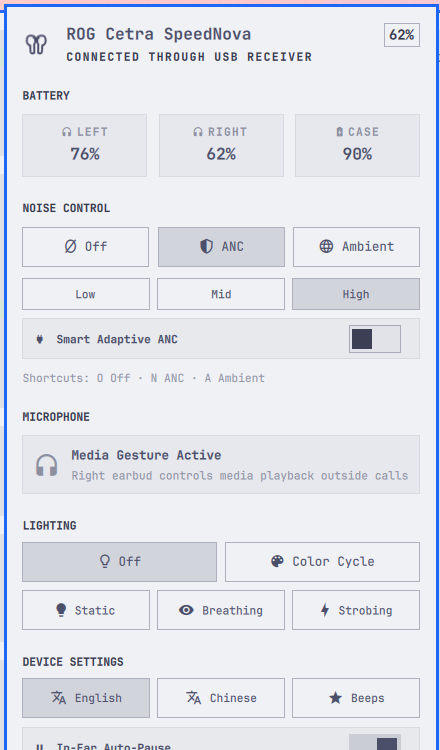
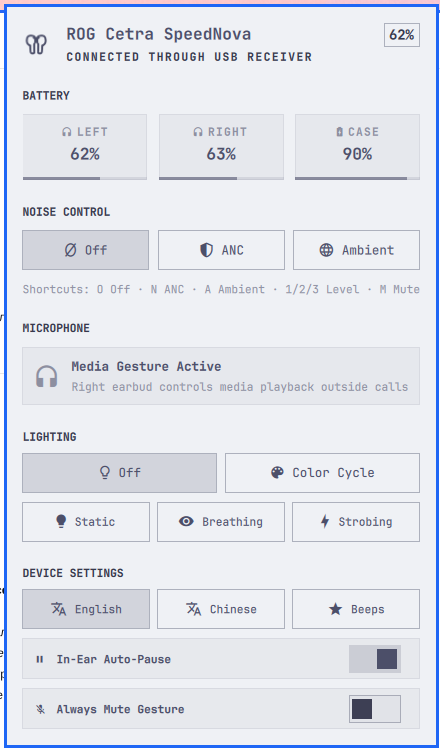
Add battery micro-bars, right-click mode toggle, theme-adaptive aura, and RU keyboard shortcuts

diff --git a/Cetra.qml b/Cetra.qml
@@ -11,6 +11,7 @@ Panel {
 
   readonly property string watchCommand: Qt.resolvedUrl("bin/cetra-watch").toString().replace("file://", "")
   readonly property color foreground: bar ? bar.foreground : Color.foreground
+  readonly property color accent: bar ? bar.accent : Color.accent
   readonly property color barColor: lowestLevel >= 0 && lowestLevel <= 20
     ? (bar ? bar.urgent : Color.urgent)
     : barForeground
@@ -148,7 +149,17 @@ Panel {
   function setLighting(effect) {
     if (!connected) return
     lighting = effect
-    deviceWatchProc.write("lighting " + effect + "\n")
+    var r = Math.round(accent.r * 255)
+    var g = Math.round(accent.g * 255)
+    var b = Math.round(accent.b * 255)
+    deviceWatchProc.write("lighting " + effect + " " + r + " " + g + " " + b + "\n")
+  }
+
+  function cycleListeningMode() {
+    if (!connected || pendingMode !== "") return
+    if (listeningMode === "off") setListeningMode("anc")
+    else if (listeningMode === "anc") setListeningMode("ambient")
+    else setListeningMode("off")
   }
 
   function updateCallContext() {
@@ -237,10 +248,22 @@ Panel {
     horizontalMargin: 7
     tooltipText: root.connected
       ? "ROG Cetra SpeedNova\nLeft: " + root.levelText(root.leftLevel)
-        + "\nRight: " + root.levelText(root.rightLevel)
-        + "\nCase: " + root.levelText(root.caseLevel)
+        + " · Right: " + root.levelText(root.rightLevel)
+        + " · Case: " + root.levelText(root.caseLevel)
+        + "\nMode: " + root.listeningMode.toUpperCase()
+        + (root.listeningMode === "anc" ? " (" + (root.ancAdaptive ? "Adaptive" : (root.ancLevel === 1 ? "Low" : (root.ancLevel === 2 ? "Mid" : "High"))) + ")" : "")
+        + " · Mic: " + (root.callContextActive ? (root.micLive ? "Live" : "Muted") : "Media")
       : "ROG Cetra SpeedNova\n" + root.statusLabel
-    onPressed: function() { root.toggle() }
+    onPressed: function(button) {
+      if (button === Qt.RightButton) {
+        root.cycleListeningMode()
+      } else {
+        root.toggle()
+      }
+    }
+    onWheelMoved: function(delta) {
+      if (delta !== 0) root.cycleListeningMode()
+    }
 
     Row {
       id: barContent
@@ -292,6 +315,28 @@ Panel {
       anchors.fill: parent
       onCloseRequested: root.close()
       onTabRequested: function(direction) { root.switchPanel(direction) }
+      onTextKey: function(t) {
+        if (t === "o" || t === "O" || t === "щ" || t === "Щ") {
+          root.setListeningMode("off")
+        } else if (t === "n" || t === "N" || t === "т" || t === "Т") {
+          root.setListeningMode("anc")
+        } else if (t === "a" || t === "A" || t === "ф" || t === "Ф") {
+          root.setListeningMode("ambient")
+        } else if (t === "1") {
+          if (root.ancAdaptive) root.setAncAdaptive(false)
+          root.setAncLevel(1)
+        } else if (t === "2") {
+          if (root.ancAdaptive) root.setAncAdaptive(false)
+          root.setAncLevel(2)
+        } else if (t === "3") {
+          if (root.ancAdaptive) root.setAncAdaptive(false)
+          root.setAncLevel(3)
+        } else if (t === "m" || t === "M" || t === "ь" || t === "Ь") {
+          root.setAlwaysCallContext(!root.alwaysCallContext)
+        } else if (t === "p" || t === "P" || t === "з" || t === "З") {
+          root.setProximity(!root.proximity)
+        }
+      }
       Keys.onPressed: function(event) {
         if (event.key === Qt.Key_O) {
           root.setListeningMode("off")
@@ -301,6 +346,18 @@ Panel {
           event.accepted = true
         } else if (event.key === Qt.Key_A) {
           root.setListeningMode("ambient")
+          event.accepted = true
+        } else if (event.key === Qt.Key_1) {
+          if (root.ancAdaptive) root.setAncAdaptive(false)
+          root.setAncLevel(1)
+          event.accepted = true
+        } else if (event.key === Qt.Key_2) {
+          if (root.ancAdaptive) root.setAncAdaptive(false)
+          root.setAncLevel(2)
+          event.accepted = true
+        } else if (event.key === Qt.Key_3) {
+          if (root.ancAdaptive) root.setAncAdaptive(false)
+          root.setAncLevel(3)
           event.accepted = true
         }
       }
@@ -354,15 +411,17 @@ Panel {
               delegate: Rectangle {
                 required property var modelData
                 width: (batteryRow.width - batteryRow.spacing * 2) / 3
-                implicitHeight: batteryCell.implicitHeight + Style.space(18)
+                implicitHeight: batteryCell.implicitHeight + Style.space(22)
                 radius: Style.cornerRadius
                 color: Qt.rgba(root.foreground.r, root.foreground.g, root.foreground.b, 0.06)
                 border.width: 1
                 border.color: Qt.rgba(root.foreground.r, root.foreground.g, root.foreground.b, 0.14)
+                clip: true
 
                 Column {
                   id: batteryCell
                   anchors.centerIn: parent
+                  anchors.verticalCenterOffset: -Style.space(2)
                   spacing: Style.space(3)
 
                   Row {
@@ -393,6 +452,27 @@ Panel {
                     font.family: root.fontFamily
                     font.pixelSize: Style.font.title
                     font.bold: true
+                  }
+                }
+
+                Rectangle {
+                  anchors.left: parent.left
+                  anchors.right: parent.right
+                  anchors.bottom: parent.bottom
+                  height: Style.space(3)
+                  color: Qt.rgba(root.foreground.r, root.foreground.g, root.foreground.b, 0.12)
+
+                  Rectangle {
+                    anchors.left: parent.left
+                    anchors.top: parent.top
+                    anchors.bottom: parent.bottom
+                    visible: modelData.value !== null
+                    width: parent.width * Math.max(0, Math.min(100, Number(modelData.value || 0))) / 100.0
+                    color: modelData.value !== null && Number(modelData.value) <= 20
+                      ? (root.bar ? root.bar.urgent : Color.urgent)
+                      : Qt.rgba(root.foreground.r, root.foreground.g, root.foreground.b, 0.55)
+
+                    Behavior on width { NumberAnimation { duration: 250; easing.type: Easing.OutCubic } }
                   }
                 }
               }
@@ -517,7 +597,7 @@ Panel {
             width: parent.width
             text: root.pendingMode !== ""
               ? "Switching to " + root.pendingMode.toUpperCase() + "…"
-              : "Shortcuts: O Off · N ANC · A Ambient"
+              : "Shortcuts: O Off · N ANC · A Ambient · 1/2/3 Level · M Mute"
             color: root.dim
             font.family: root.fontFamily
             font.pixelSize: Style.font.caption

diff --git a/cetra-watch.c b/cetra-watch.c
@@ -431,9 +431,13 @@ static bool handle_command(hid_device *device, struct device_state *state, struc
       if (!set_proximity(device, enabled) || !send_request(device, 0x26)) return false;
     }
   } else if (strcmp(key, "lighting") == 0) {
-    int effect = parse_lighting(value);
+    char effect_str[32] = {0};
+    int r = 0xff, g = 0x00, b = 0x00;
+    int parsed = sscanf(command, "lighting %31s %d %d %d", effect_str, &r, &g, &b);
+    int effect = parse_lighting(effect_str);
     if (effect >= 0 && device) {
-      set_lighting(device, effect, 0xff, 0x00, 0x00);
+      if (parsed < 4) { r = 0xff; g = 0x00; b = 0x00; }
+      set_lighting(device, effect, (unsigned char)r, (unsigned char)g, (unsigned char)b);
       state->lighting = effect;
     }
   } else if (strcmp(key, "mic_state") == 0) {
